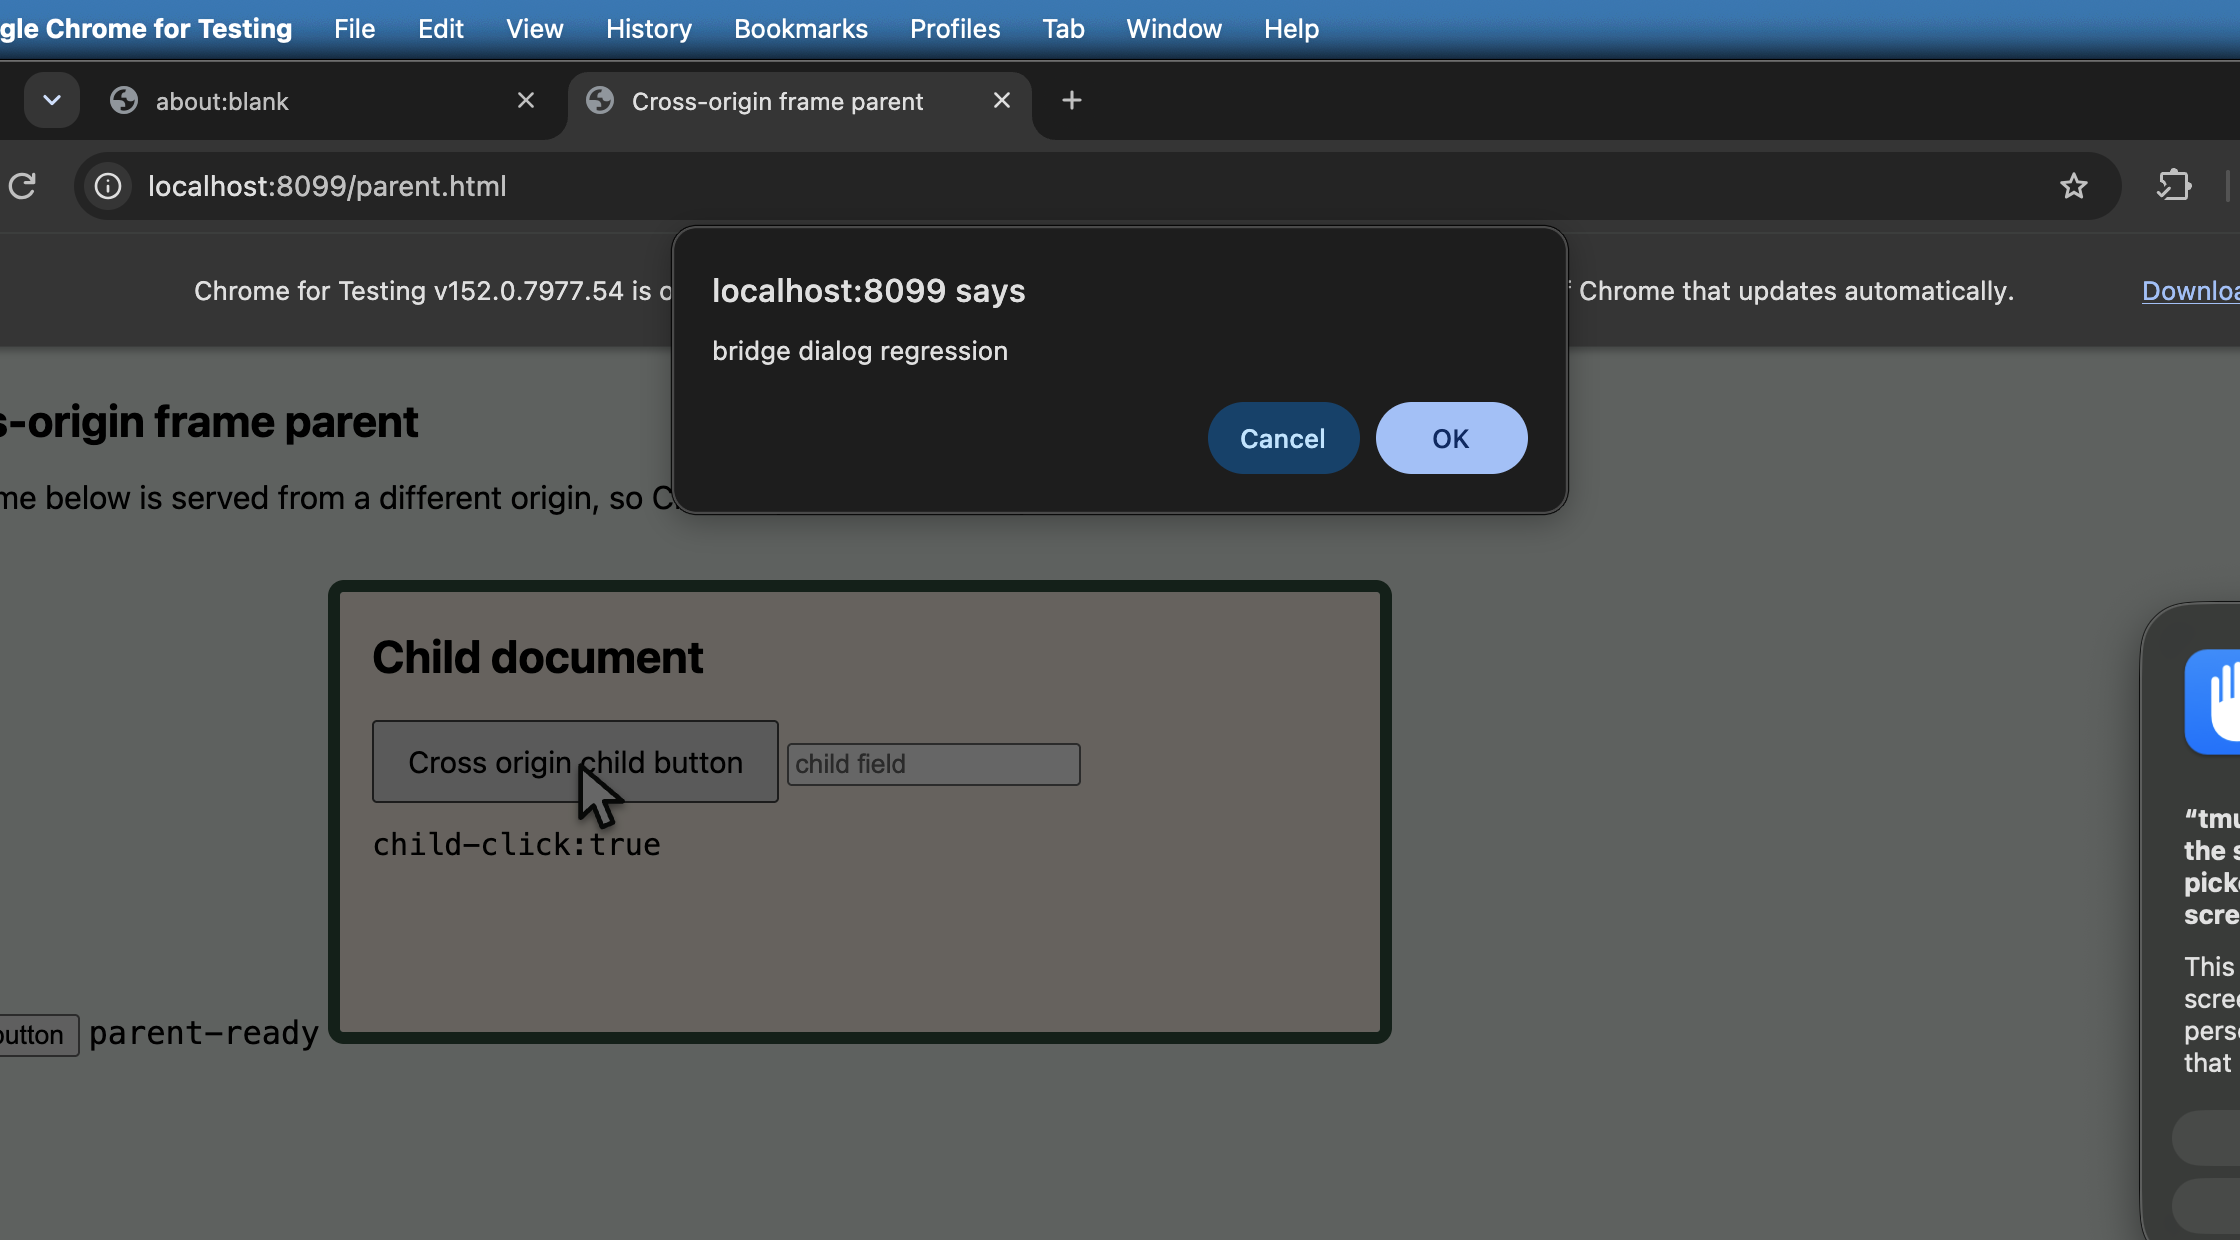
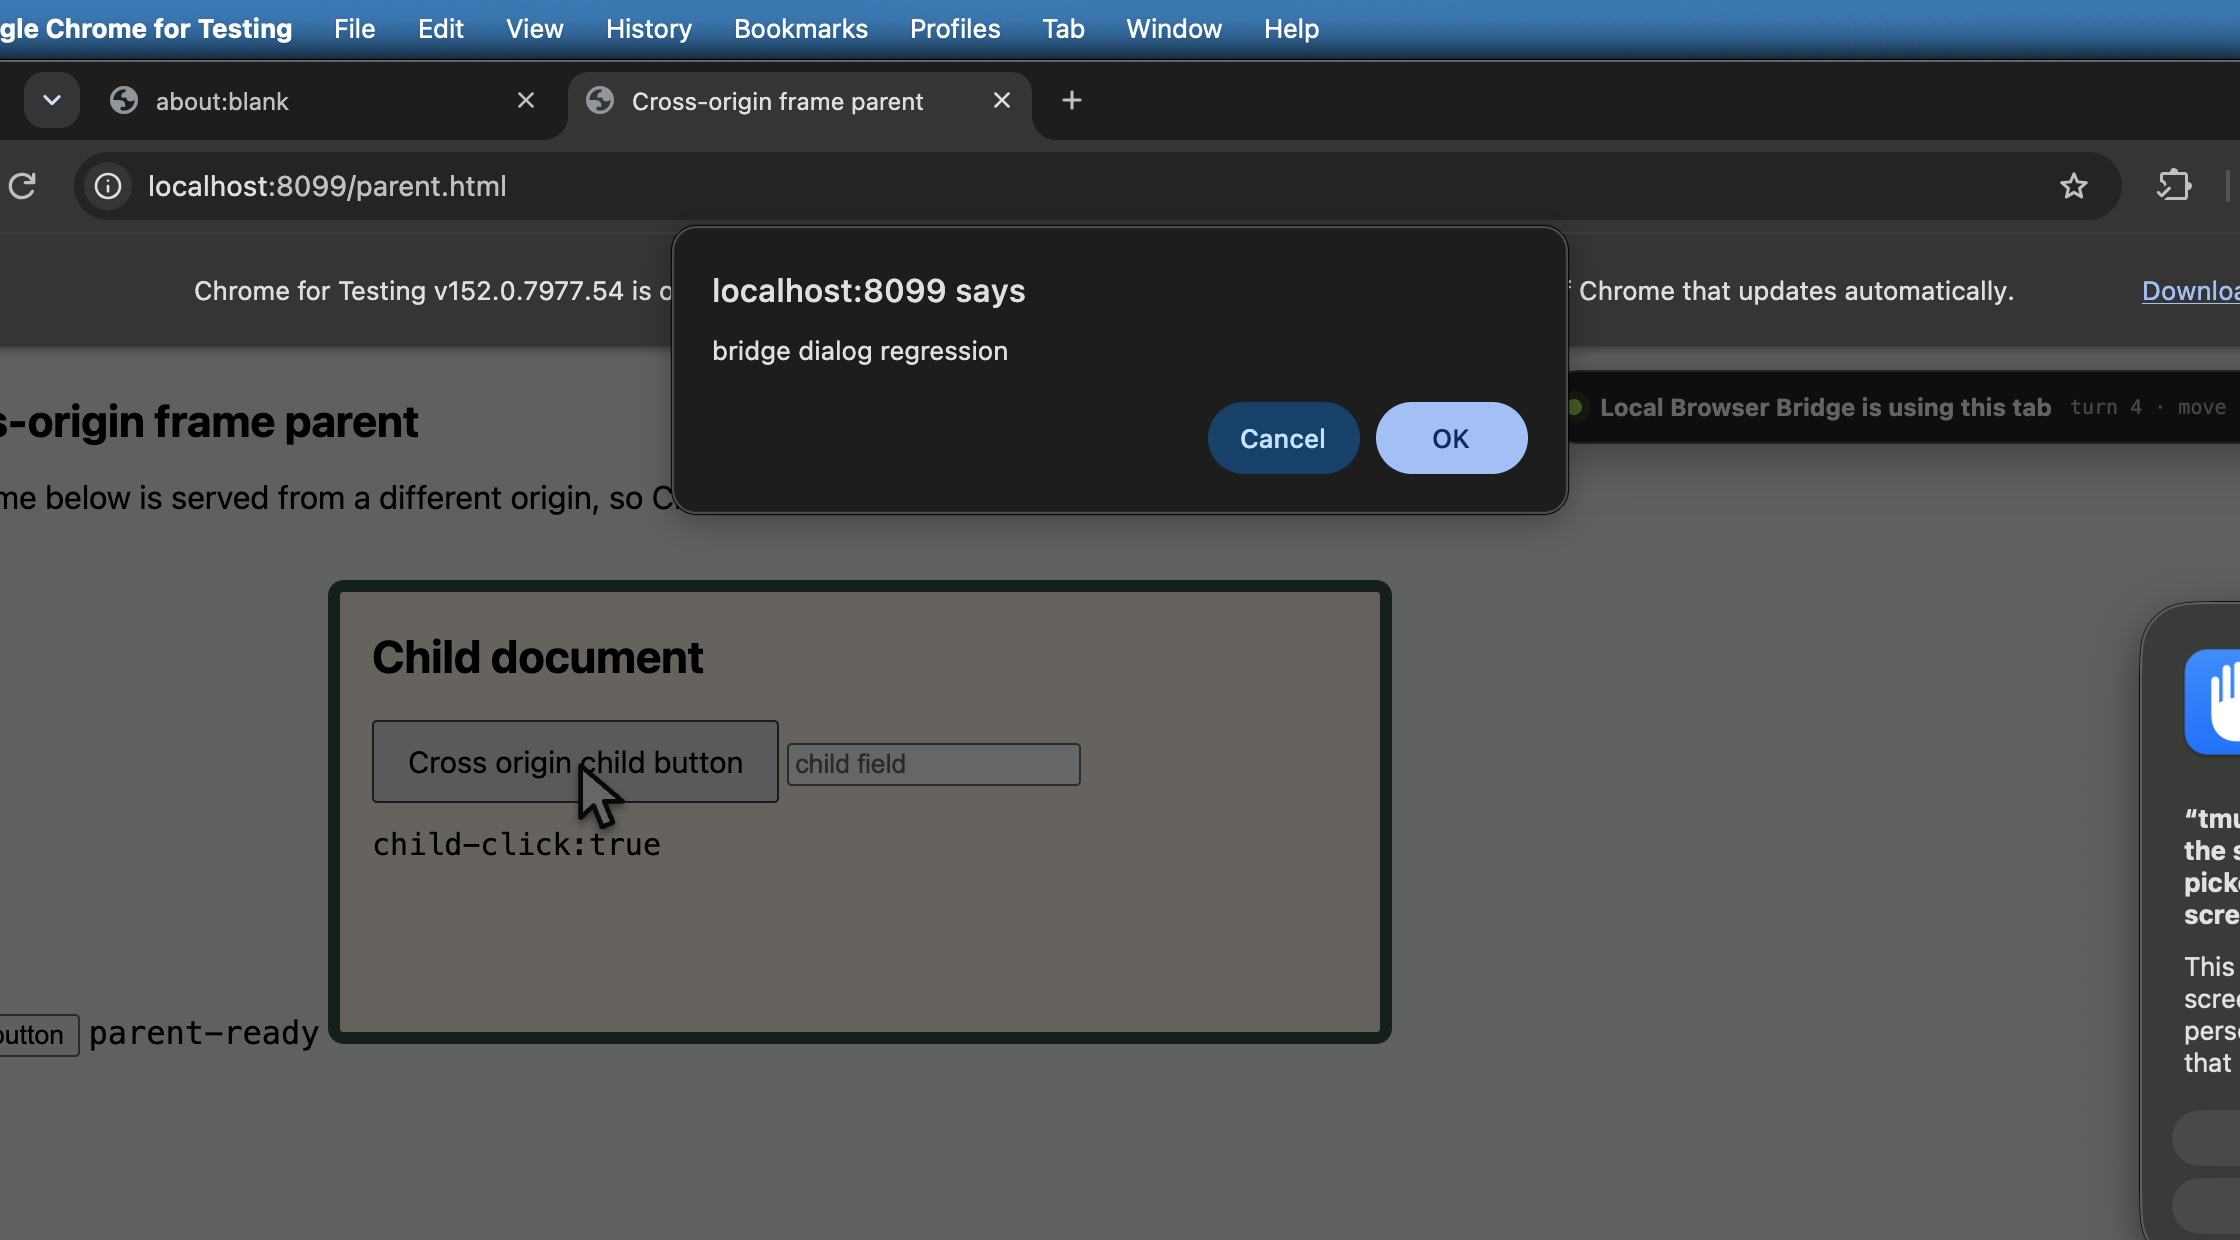
test: promote v0.11.0 evidence to the frozen packaged run
Re-ran the live matrix against the published release artifacts after
checksum and attestation verification: 21/21 checks passed with both
packaged binaries reporting 0.11.0 and the extension ZIP carrying all nine
declared files.

Changed region(s): [[0.6875, 0.2758, 1.0, 0.3677]]

diff --git a/evidence/v0.11.0/README.md b/evidence/v0.11.0/README.md
@@ -1,6 +1,6 @@
 # Version 0.11.0 evidence
 
-Recorded 2026-08-20 in a real browser. **21 of 21 live checks passed**
+Recorded 2026-08-20 in a real browser, against the **published v0.11.0 release artifacts** downloaded from the immutable GitHub release, checksum-verified against `SHA256SUMS.txt` and verified with `gh attestation verify` (exit 0 for all four assets). **21 of 21 live checks passed**
 ([`browser/results.json`](browser/results.json),
 [`browser/rig.log`](browser/rig.log), driver
 [`browser/evidence-rig.mjs`](browser/evidence-rig.mjs)).
@@ -13,8 +13,8 @@ frame support works outside its test harness.
 
 | Item | Value |
 |---|---|
-| Server | `local-browser-bridge 0.11.0`, release build |
-| Extension | `Local Browser Bridge 0.11.0`, from `scripts/package-extension.sh` output, loaded unpacked |
+| Server | packaged `local-browser-bridge 0.11.0` from `local-browser-bridge-v0.11.0-macos-universal.tar.gz` |
+| Extension | packaged `Local Browser Bridge 0.11.0` from `local-browser-bridge-extension-v0.11.0.zip`, loaded unpacked |
 | Browser | Google Chrome for Testing 152.0.7977.54, disposable profile |
 | Parent page | `http://localhost:8099/parent.html` ([fixture](browser/fixtures/parent.html)) |
 | Child frame | `http://127.0.0.1:8100/child.html` ([fixture](browser/fixtures/child.html)) |
@@ -32,7 +32,7 @@ run exercises all of them together in a live browser.
 |---|---|
 | OOPIFs are discovered and merged | `frames.observed`: one frame, `crossOrigin: true`, `urlOrigin http://127.0.0.1:8100`, `depth 1`, `offset {x:250, y:123}`, `mode cdp-auto-attach` |
 | Frame elements join the observation | `frames.elements-merged`: the child's button and text field appear as `…f1.e1` and `…f1.e2` with their own origin |
-| Frame ref grammar | `frames.ref-grammar`: `mt13rtpc-an67xf77.f1.e1` |
+| Frame ref grammar | `frames.ref-grammar`: `mt1487ip-940w0uxx.f1.e1` |
 | Coordinates are translated into the top-level viewport | the child button reports `bounds {x:266, y:187}`, its frame-local position plus the frame offset |
 | **A trusted click really lands inside the cross-origin frame** | `frames.trusted-click-landed-in-child`: the child document recorded **`child-click:true`**, i.e. `event.isTrusted === true` inside the OOPIF |
 
